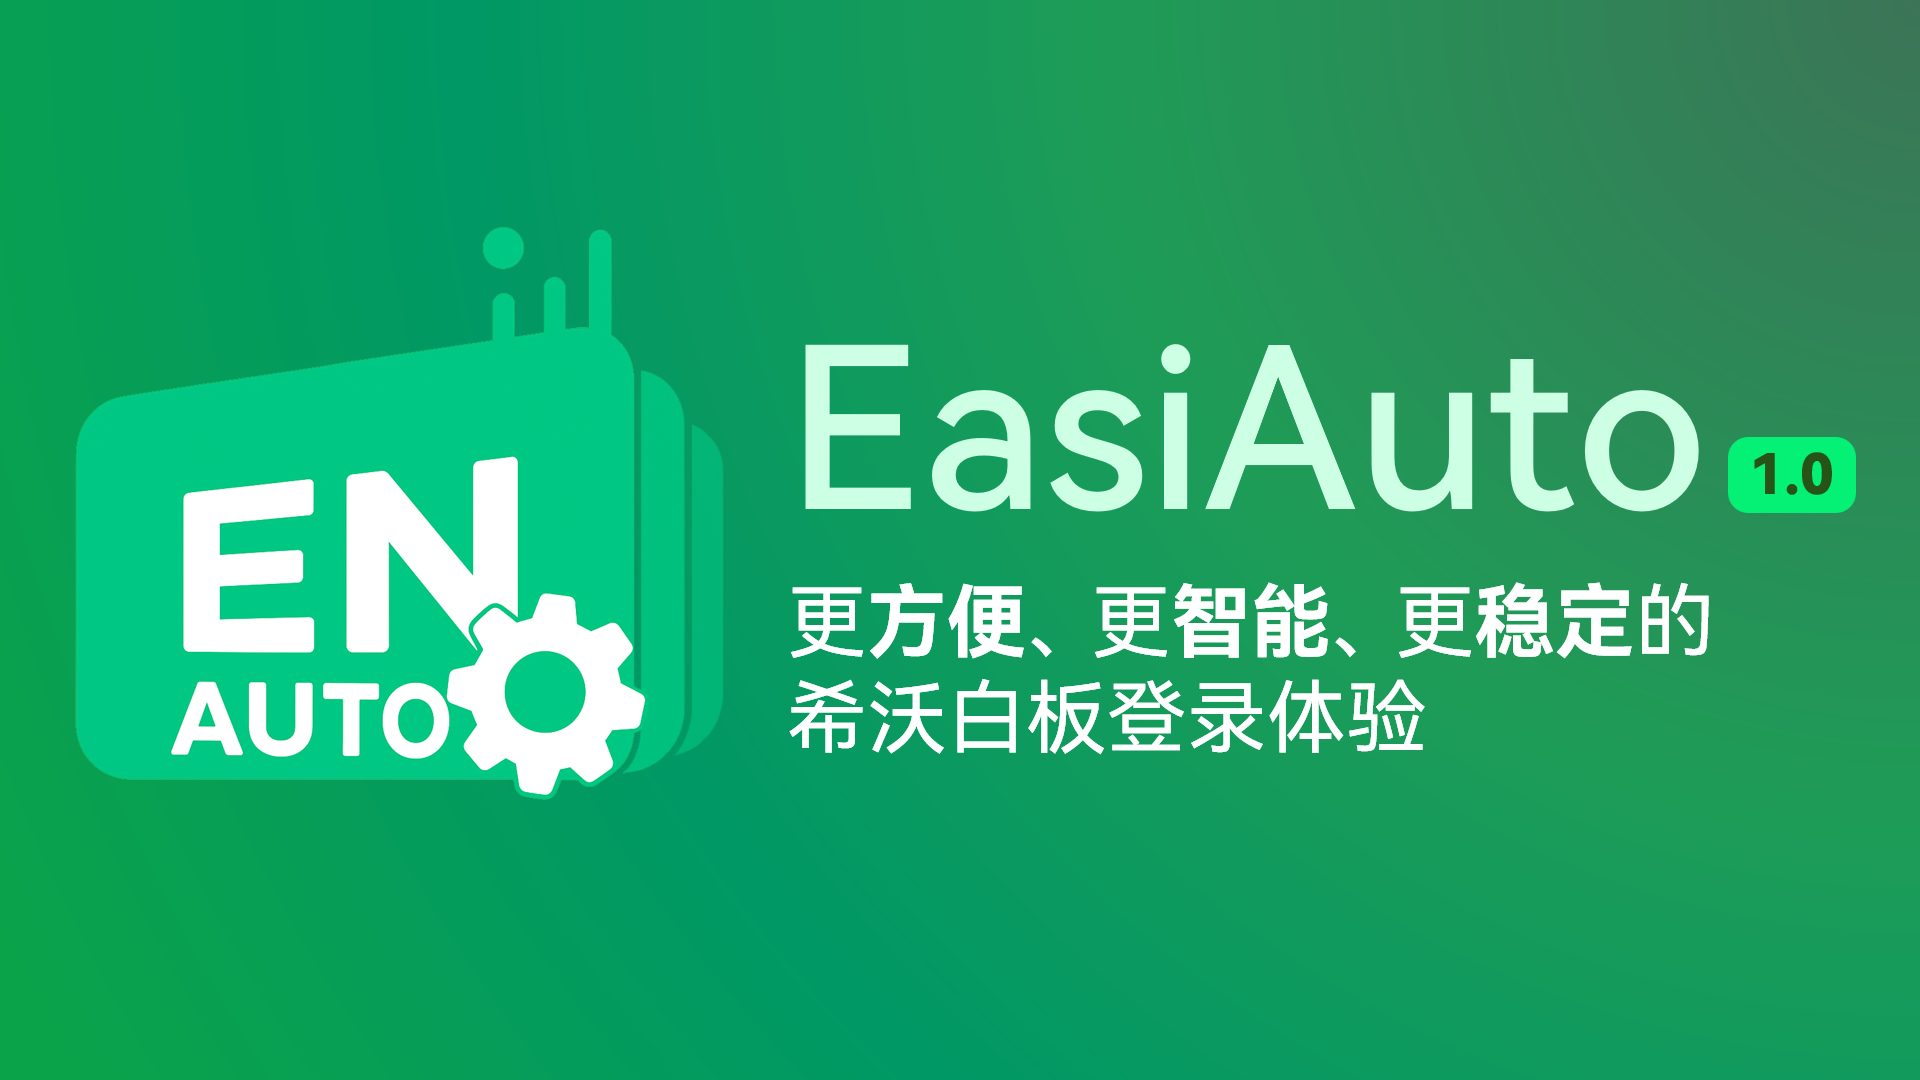
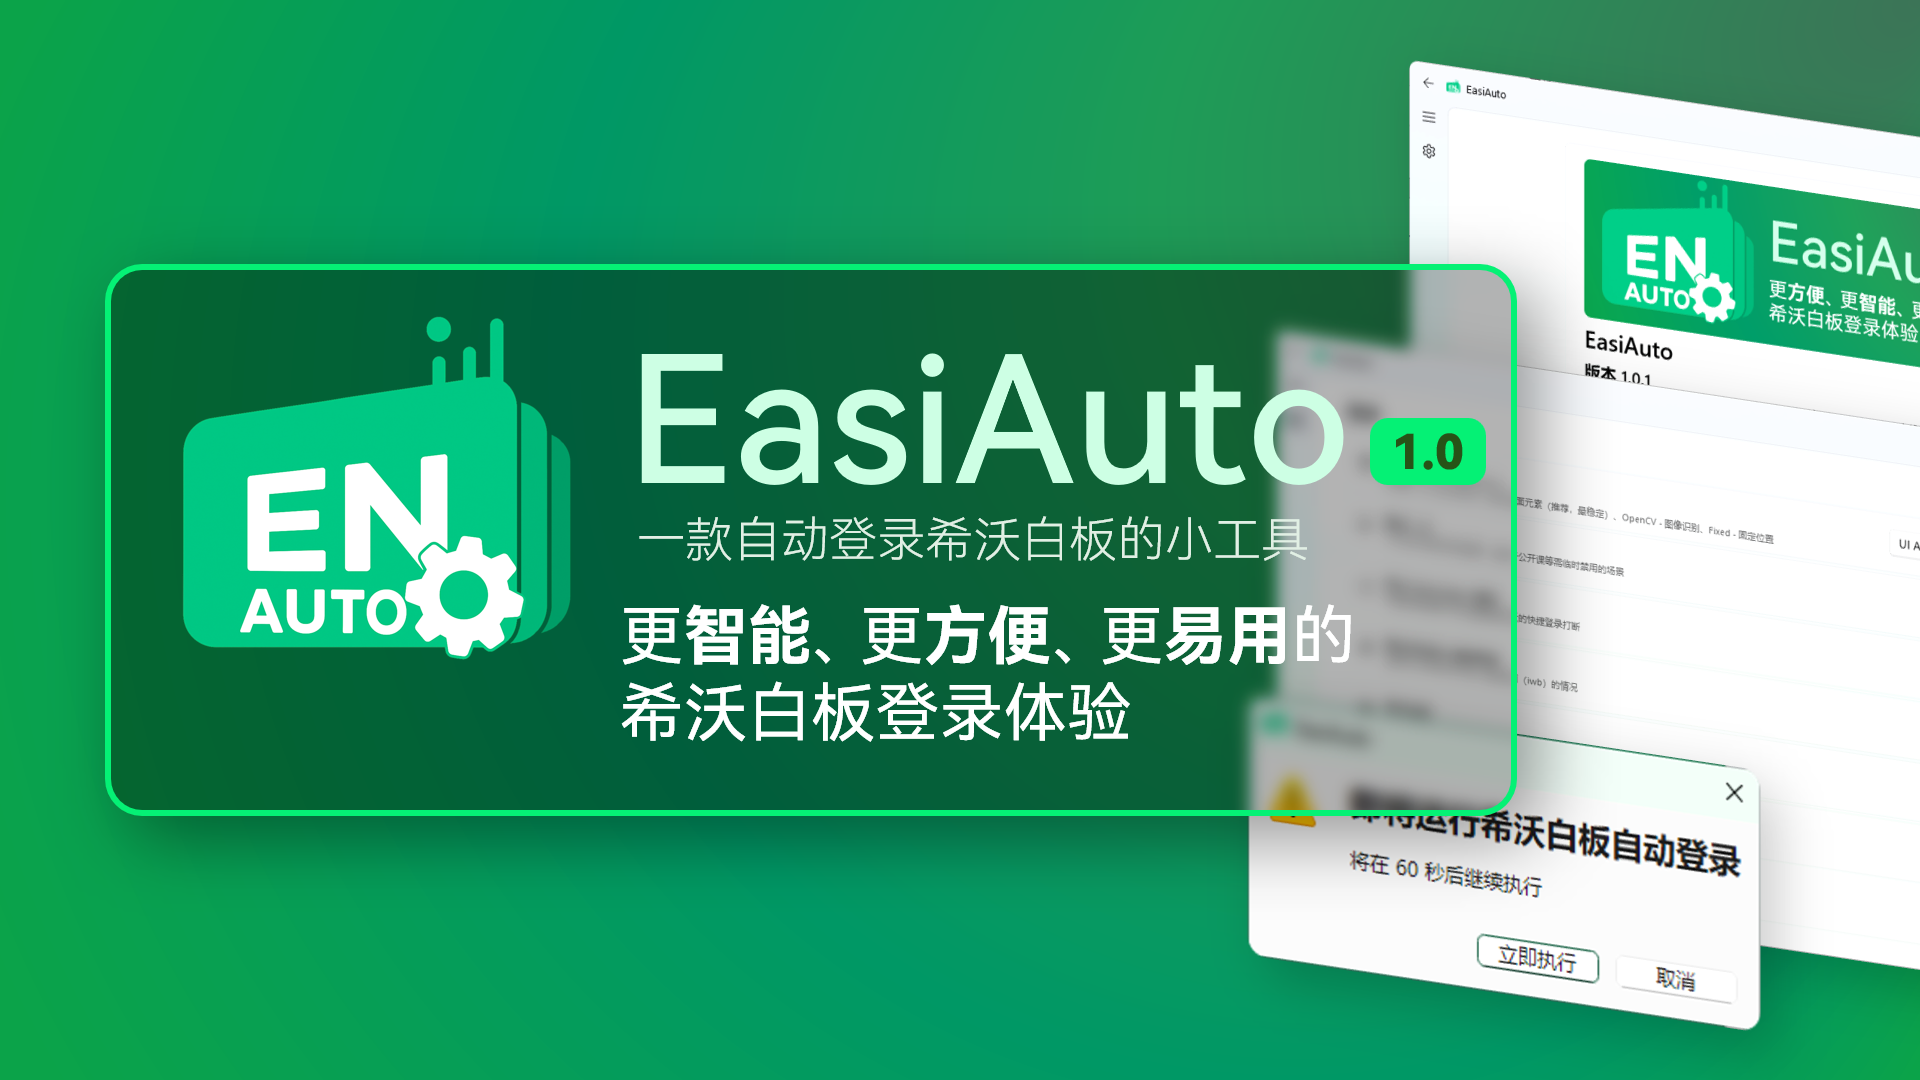
docs & chore

diff --git a/README.md b/README.md
@@ -1,9 +1,9 @@
 
 # EasiAuto
 
-![EasiAuto 宣传图](docs/EasiAutoPoster.PNG)
+![EasiAuto 宣传图](docs/EasiAutoPoster.png)
 
-一个使用 Python 编写的 CLI 工具，可以用于自动登录希沃白板。通过 PyAutoGUI 实现自动识别并点击来模拟登录。
+EasiAuto 是一款自动登录希沃白板的小工具，可以通过一行命令快速登录进入希沃白板。
 
 推荐与 [ClassIsland](https://github.com/ClassIsland/ClassIsland/) 的 **「自动化」** 功能结合使用，可实现在指定课程开始时自动登录至任课老师的希沃账号。具体自动化配置方案，详见 <https://forum.smart-teach.cn/d/725>
 
@@ -11,80 +11,43 @@
 
 ## ✨亮点
 
-* **醒目的横幅警示**：兼具实用性与视觉冲击力
-
-![醒目的横幅警告](docs/banner.webp)
-
-* **单次跳过**：满足特殊场景下的灵活需求
-
-![单次跳过](docs/skip_once.webp)
+* **完备的识别方式**：具有 UIA 自动定位、OpenCV 图像识别定位、~~固定位置（未完成）~~ 三种登录方案，可根据需求切换
 
 * **运行前显示警告弹窗**：让自动运行不再措不及防
 
 ![运行前警告](docs/warning.png)
 
-* **自动错误重试**：无惧登录流程被打断
+* **醒目的横幅警示**：兼具实用性与视觉冲击力，同时支持高度自定义
 
-* **自动焦点切换**：解决因焦点丢失导致的登录打断
+![醒目的横幅警告](docs/banner.webp)
+
+* **单次跳过**：暂时禁用自动登录，满足特殊场景下的灵活需求
+
+* **错误重试**：无惧登录流程被打断
 
 ## 🪄 使用
 
-使用已预先打包的可执行文件，直接通过命令行进行调用。
+双击 `EasiAuto.exe`，打开设置界面进行配置。
+
+配置完毕后，通过命令行进行调用
 
 ```pwsh
-# 首次运行，创建配置文件
-easiauto
-
-# 查看使用说明
-easiauto -h
-
 # 运行自动登录
-easiauto login -a ACCOUNT -p PASSWORD
+.\EasiAuto.exe login -a ACCOUNT -p PASSWORD
 
 # 跳过下一次登录
-easiauto skip
+.\EasiAuto.exe skip
 
+# 查看使用说明
+.\EasiAuto.exe -h
 ```
 
-## 🔧 配置
+## 自动化
 
-第一次运行程序时，会在程序所在目录下创建配置文件 `config.json`，随后程序自动退出。此时按照说明配置好自动登录选项，之后即可正常运行
+见 <https://forum.smart-teach.cn/d/725>
 
-可用的选项：
-
-### `warning`
-
-* `enabled`: 是否在自动登录前弹出警告弹窗，默认 `false`
-* `timeout`: 警告弹窗的超时时长（秒），默认 `15`，范围 5~300
-
-### `banner`
-
-* `enabled`: 是否启用横幅警示，默认 `true`
-* `text`: 横幅显示的文本内容
-* `y_offset`: 横幅垂直方向的偏移量，默认 `20`
-
-### `login`
-
-* `skip_once`: 跳过下一次自动登录，默认 `false`
-* `kill_agent`: 启动前是否终止 `SeewoAgent.exe`，默认 `true`
-* `is_4k`: 是否启用 4K 模式（部分场景可能不完整），默认 `false`
-* `directly`: 是否跳过点击进入登录界面，适用于不进入白板界面的情况，默认 `false`
-* `easinote`:
-
-  * `path`: 希沃白板程序路径，用于启动程序。默认 `"auto"` 表示自动查找
-  * `process_name`: 进程名，用于终止进程。默认 `"EasiNote.exe"`
-  * `args`: 启动参数，默认为空字符串。设置为 `"-m Display iwb"` 时可以使非希沃设备跳过强制登录，直接进入白板界面
-* `timeout`（秒，不超过30的正整数）:
-
-  * `terminate`: 终止进程等待时间，默认 `1`
-  * `launch`: 启动应用等待时间，默认 `8`
-  * `enter_login_ui`: 进入登录界面等待时间，默认 `3`
-  * `switch_tab`: 登录界面切换选项卡等待时间，默认 `1`
-
-### `app`
-
-* `max_retries`: 最大重试次数，默认 `2`，范围 0~10
-* `log_level`: 日志级别，支持 `DEBUG`、`INFO`、`WARNING`、`ERROR`、`CRITICAL`，默认 `WARNING`
+> [!NOTE]  
+> 即将发布的 1.1 版本将加入 ClassIsland 配置自动生成，可直接将自动化写入 ClassIsland 配置文件，敬请期待
 
 ## 开发
 
